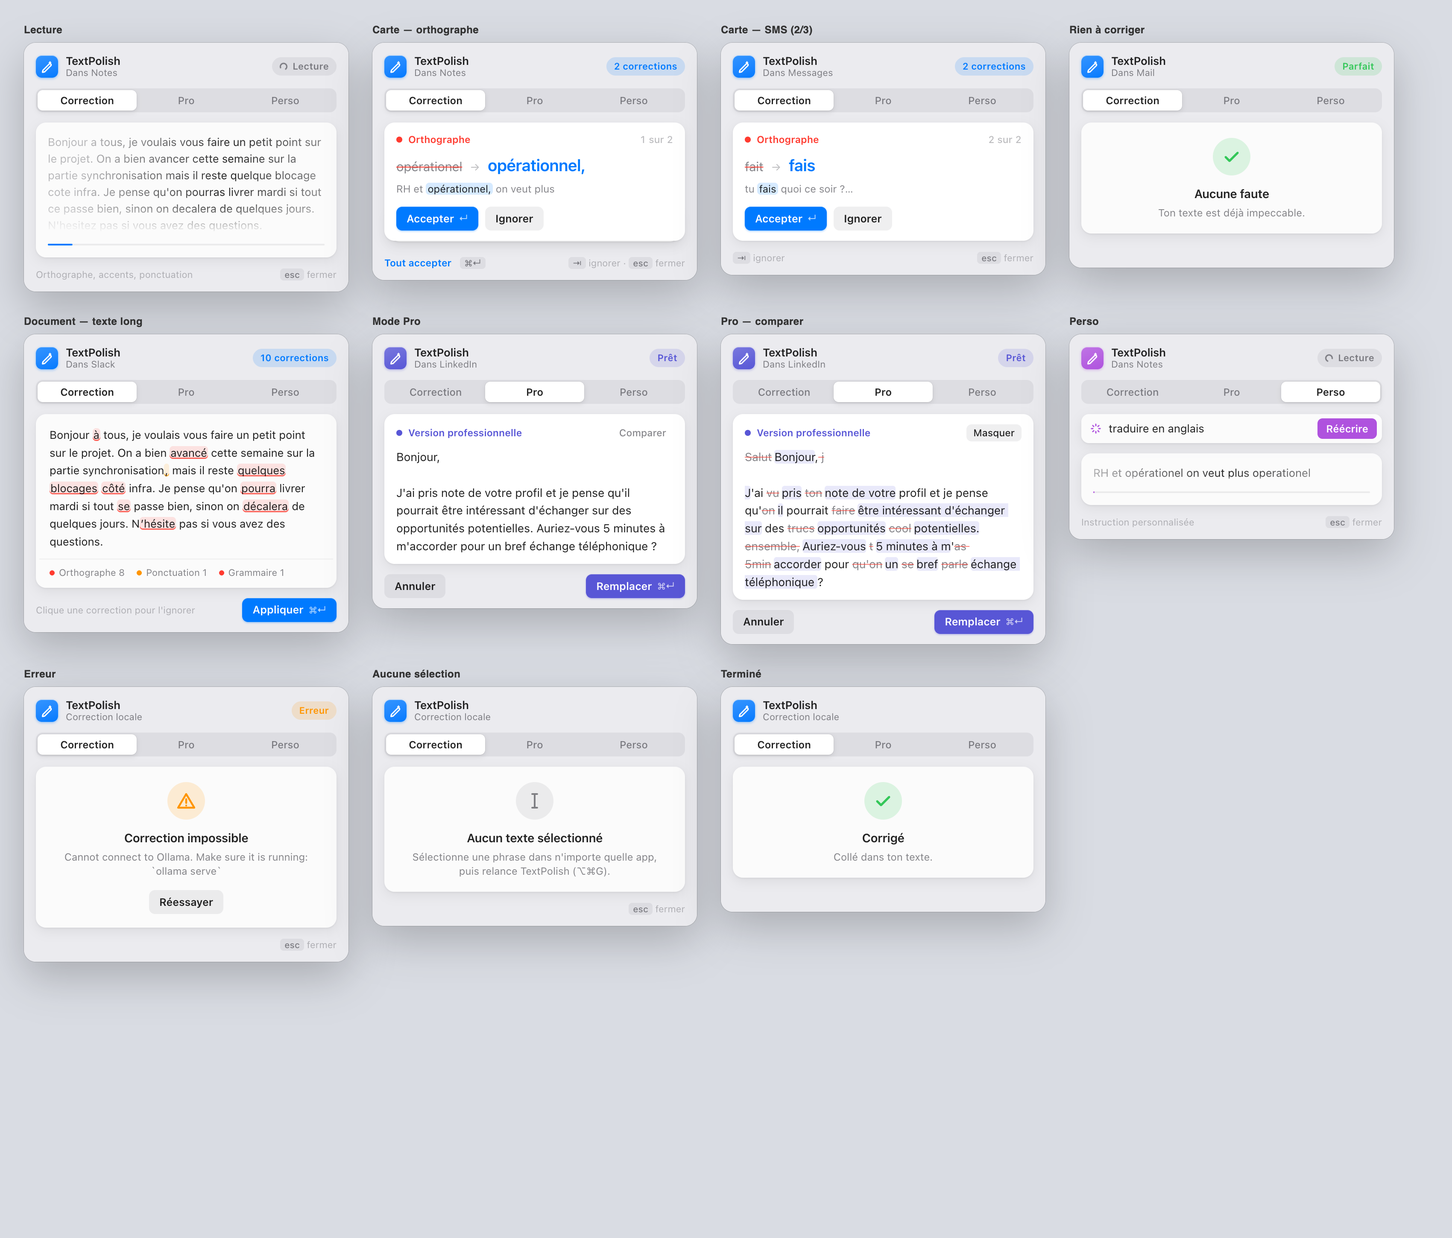
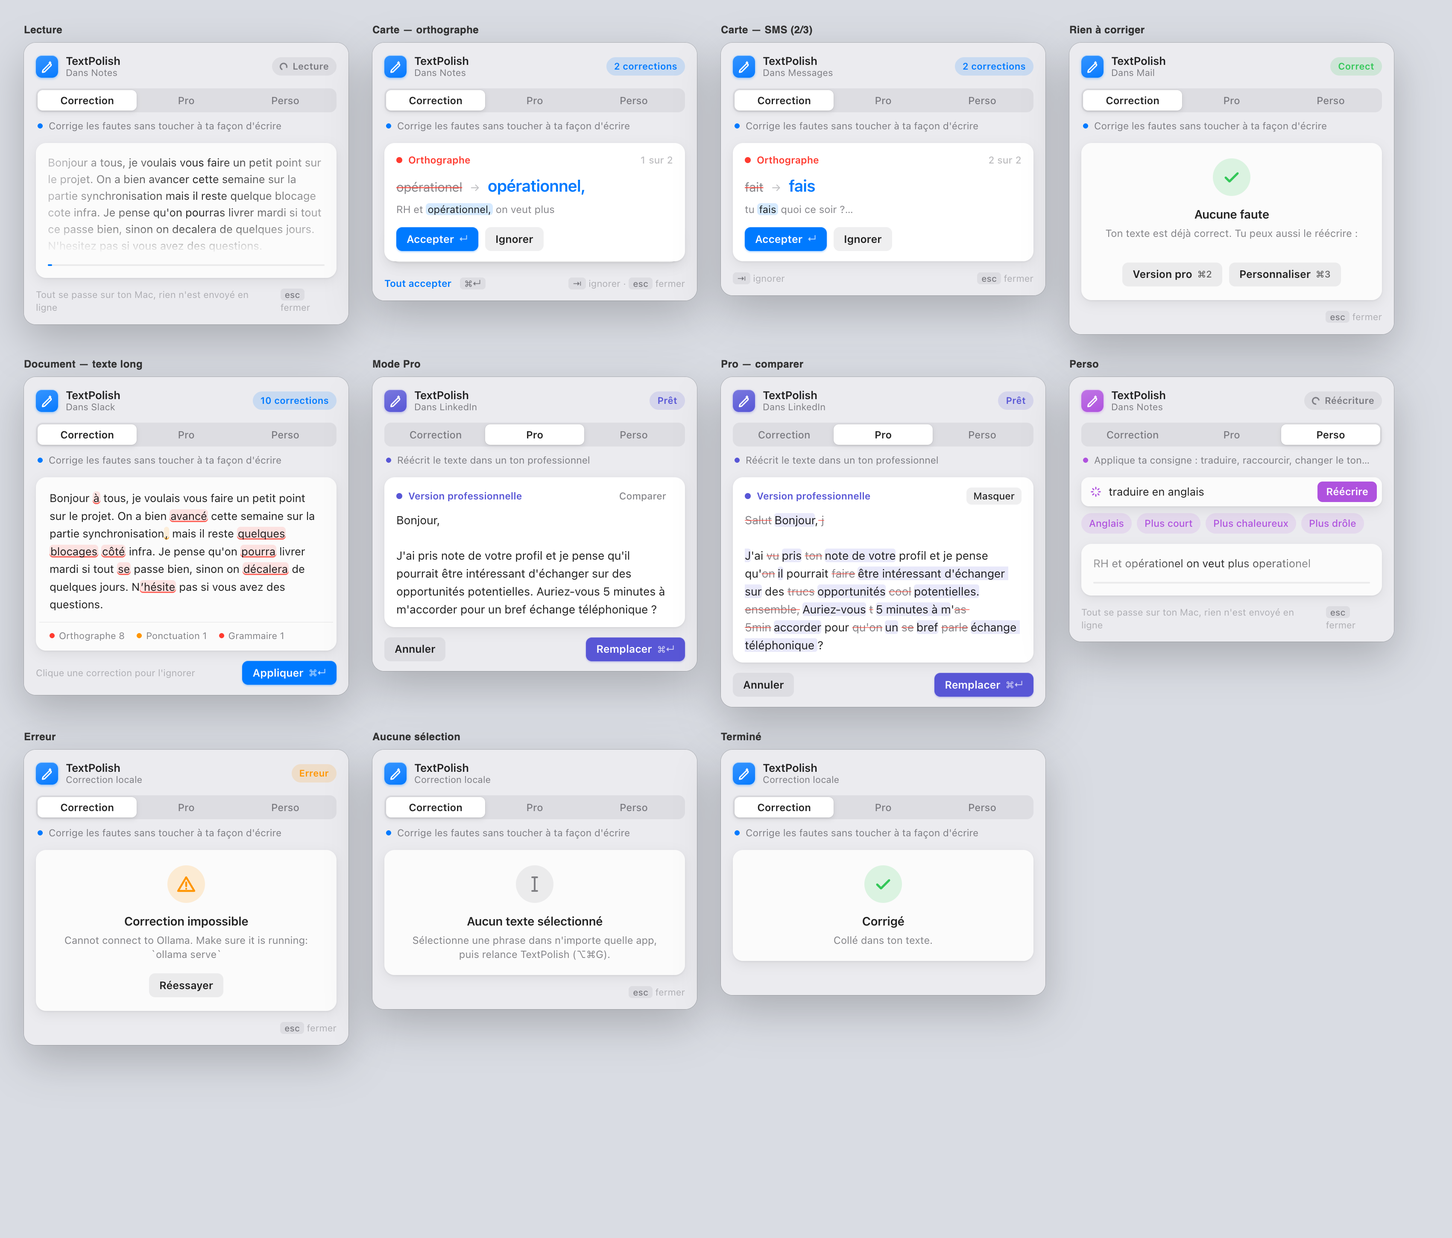
docs: rewrite the case study around the three modes and real use
First-person tone, a section on why each mode has its own color and
what correction colors mean, Perso explained with a real capture, the
local-only trade-offs with measured timings, and curated screenshots
instead of the all-states sheet.

Changed region(s): [[0.0, 0.0931, 0.9665, 0.869]]

diff --git a/docs/case-study.html b/docs/case-study.html
@@ -106,6 +106,20 @@
   .twoshots { display: grid; grid-template-columns: repeat(auto-fit, minmax(16rem, 1fr)); gap: 24px; margin-top: 26px; }
   .twoshots figure { margin: 0; }
 
+  /* Mode colors */
+  .modes { display: grid; grid-template-columns: repeat(auto-fit, minmax(15rem, 1fr)); gap: 24px; margin-top: 26px; }
+  .modes figure { margin: 0; display: flex; flex-direction: column; gap: 12px; }
+  .swatch { display: flex; align-items: center; gap: 10px; font-family: var(--display); font-weight: 600; font-size: 1.05rem; }
+  .swatch i { width: 14px; height: 14px; border-radius: 4px; flex-shrink: 0; }
+  .modes p { font-size: 0.95rem; color: var(--muted); margin: 0; }
+  .kinds { display: flex; flex-wrap: wrap; gap: 10px 22px; margin-top: 8px; font-size: 0.95rem; }
+  .kinds span { display: inline-flex; align-items: center; gap: 8px; }
+  .kinds i { width: 9px; height: 9px; border-radius: 50%; }
+  .stat { font: 700 2rem/1 var(--display); color: var(--blue); font-variant-numeric: tabular-nums; }
+  .stats { display: grid; grid-template-columns: repeat(auto-fit, minmax(10rem, 1fr)); gap: 18px; margin: 22px 0 18px; }
+  .stats div { background: var(--sheet); padding: 16px 18px; }
+  .stats p { font-size: 0.9rem; color: var(--muted); margin: 6px 0 0; }
+
   footer { margin-top: 72px; padding-top: 22px; border-top: 1px solid var(--rule); font: 0.85rem/1.6 var(--mono); color: var(--muted); }
 
   @media (prefers-reduced-motion: no-preference) {
@@ -121,104 +135,144 @@
   <div>
     <div class="label">Étude de cas UX · macOS · IA locale</div>
     <h1 style="margin-top:14px">TextPolish</h1>
-    <p class="lede" style="margin-top:18px">Corriger un texte <span class="fix"><s>sans quiter</s> <ins>sans quitter</ins></span> l'app où on l'écrit. On sélectionne, on appuie sur <kbd>⌥⌘G</kbd>, et une petite fenêtre propose les corrections une par une, avec un modèle qui tourne entièrement sur le Mac.</p>
+    <p class="lede" style="margin-top:18px">J'écris vite, sur mon téléphone comme sur mon Mac, et je laisse passer des fautes. J'ai construit un petit outil qui les corrige <span class="fix"><s>sans quiter</s> <ins>sans quitter</ins></span> l'app où j'écris : je sélectionne, j'appuie sur <kbd>⌥⌘G</kbd>, et une fenêtre me propose les corrections une par une. Le modèle tourne sur mon Mac, rien ne part sur Internet.</p>
     <div class="meta">
       <span class="label">Python · PyObjC · WebKit</span>
-      <span class="label">Ollama · Ministral 3B</span>
-      <span class="label">107 tests</span>
+      <span class="label">Ollama · Ministral 3B · Gemma 3</span>
+      <span class="label">109 tests</span>
     </div>
   </div>
   <figure>
-    <img class="shot" src="screenshots/popup-card-dark.png" alt="Popup TextPolish sous une phrase sélectionnée dans TextEdit : carte Orthographe proposant opérationel → opérationnel, avec les boutons Accepter et Ignorer.">
-    <figcaption>Capture réelle : la carte apparaît juste sous la sélection, dans TextEdit.</figcaption>
+    <img class="shot" src="screenshots/popup-card-dark.png" alt="Fenêtre TextPolish sous une phrase sélectionnée dans TextEdit : carte Orthographe proposant opérationel → opérationnel, avec Accepter et Ignorer.">
+    <figcaption>Capture réelle dans TextEdit. La fenêtre se place sous le texte sélectionné.</figcaption>
   </figure>
 </header>
 
 <main>
 <section class="col">
-  <h2>Le problème</h2>
-  <p>Pour corriger un message, on copie le texte, on ouvre un correcteur dans le navigateur, on colle, on recopie le résultat, puis on revient. Cinq gestes pour une virgule. Les outils qui évitent ce détour, comme Grammarly, envoient le texte sur leurs serveurs.</p>
-  <p>Je voulais l'inverse : rester dans l'app, ne rien envoyer en ligne, et que la correction arrive avant qu'on ait eu le temps de se demander quel mode choisir.</p>
+  <h2>Pourquoi je l'ai fait</h2>
+  <p>Pour corriger un message, je faisais toujours la même chose : copier le texte, l'ouvrir dans un correcteur en ligne, recopier le résultat, revenir dans l'app. Cinq gestes pour une virgule, et mon texte passait par les serveurs de quelqu'un d'autre.</p>
+  <p>Je voulais trois choses : ne pas quitter l'app, ne rien envoyer en ligne, et avoir une correction prête avant même de me demander quel réglage choisir.</p>
 </section>
 
 <section class="col">
   <h2>Le parcours</h2>
-  <p>Chaque étape retire une décision à l'utilisateur.</p>
+  <p>À chaque version, j'ai essayé d'enlever une décision à l'utilisateur.</p>
   <ol class="journey">
-    <li><div><b>Sélectionner, puis <kbd>⌥⌘G</kbd>.</b> Fonctionne dans Notes, Mail, Slack ou TextEdit. Le presse-papiers de l'utilisateur est sauvegardé puis restauré.</div></li>
-    <li><div><b>Lecture.</b> La fenêtre s'ouvre sous la sélection (position lue via l'API d'accessibilité de macOS) et le texte scintille pendant que le modèle lit.</div></li>
-    <li><div><b>Correction automatique.</b> Le mode Correction démarre seul : orthographe, accents, ponctuation, sans reformuler. Pro et Perso restent à un raccourci (<kbd>⌘2</kbd>, <kbd>⌘3</kbd>).</div></li>
-    <li><div><b>Une décision par faute.</b> <kbd>↵</kbd> accepte, <kbd>⇥</kbd> ignore, <kbd>⌘↵</kbd> accepte tout.</div></li>
-    <li><div><b>Collé.</b> Le texte reconstruit avec les seules corrections acceptées remplace la sélection, et la fenêtre disparaît.</div></li>
+    <li><div><b>Je sélectionne, puis <kbd>⌥⌘G</kbd>.</b> Ça marche dans Notes, Mail, Slack, TextEdit. Ce que j'avais copié avant est remis dans le presse-papiers à la fin.</div></li>
+    <li><div><b>La fenêtre lit le texte.</b> Elle s'ouvre juste sous la sélection et le texte scintille pendant la lecture.</div></li>
+    <li><div><b>La correction démarre seule.</b> Pas de mode à choisir : par défaut, l'outil corrige les fautes.</div></li>
+    <li><div><b>Je décide faute par faute.</b> <kbd>↵</kbd> pour accepter, <kbd>⇥</kbd> pour ignorer, <kbd>⌘↵</kbd> pour tout accepter.</div></li>
+    <li><div><b>C'est collé.</b> Seules les corrections acceptées remplacent ma sélection, et la fenêtre disparaît.</div></li>
   </ol>
 </section>
 
 <section class="col">
-  <h2>Une fenêtre qui s'adapte au texte</h2>
-  <p>Le même résultat ne se lit pas de la même façon selon sa longueur. Après la réponse du modèle, le diff est découpé en corrections typées (orthographe, accent, majuscule, grammaire, ponctuation, reformulation), puis l'app choisit la vue.</p>
+  <h2>Trois modes, trois couleurs</h2>
+  <p>Le mode par défaut, Correction, ne fait que corriger. C'est voulu : la plupart du temps, je veux juste que ma phrase soit juste, pas qu'on me la réécrive. Un message à un ami doit rester mon message. Quand je veux plus, je passe à Pro ou à Perso.</p>
+  <p>Chaque mode a sa couleur, partout dans la fenêtre : l'icône, l'onglet, le bouton principal et les surlignages. Même sans lire, on sait dans quel mode on est, et on ne remplace pas un texte entier par erreur en croyant juste corriger une faute. Une ligne sous les onglets dit en clair ce que fait le mode.</p>
 </section>
 <div class="wide">
-  <div class="layouts">
-    <div class="layout"><span class="label">Cartes</span><p>Texte court, trois fautes au plus : une carte par correction, avant → après, avec le contexte.</p></div>
-    <div class="layout"><span class="label">Document</span><p>Texte long : le texte entier, corrections surlignées par type. Un clic en annule une.</p></div>
-    <div class="layout"><span class="label">Réécriture</span><p>Pro et Perso changent toute la phrase : une seule proposition et un bouton Comparer.</p></div>
-    <div class="layout"><span class="label">Rien à corriger</span><p>Une coche, « Aucune faute », et la fenêtre se ferme seule.</p></div>
+  <div class="modes">
+    <figure>
+      <div class="swatch"><i style="background:#0a84ff"></i>Correction · <kbd>⌘1</kbd></div>
+      <p>Corrige les fautes sans toucher à ta façon d'écrire. Garde l'argot, les « frérot », les anglicismes comme « deadline ».</p>
+      <img class="shot" src="screenshots/popup-card-dark.png" alt="Mode Correction, carte bleue.">
+    </figure>
+    <figure>
+      <div class="swatch"><i style="background:#5e5ce6"></i>Pro · <kbd>⌘2</kbd></div>
+      <p>Réécrit le texte dans un ton professionnel. Une seule proposition, à comparer avec l'original avant de remplacer.</p>
+      <img class="shot" src="screenshots/popup-pro-dark.png" alt="Mode Pro : un message de candidature familier réécrit en version professionnelle, couleur indigo.">
+    </figure>
+    <figure>
+      <div class="swatch"><i style="background:#bf5af2"></i>Perso · <kbd>⌘3</kbd></div>
+      <p>Fait ce que je demande : traduire, raccourcir, rendre plus chaleureux ou plus drôle. Quatre idées en un clic, ou ma propre consigne.</p>
+      <img class="shot" src="screenshots/popup-perso-dark.png" alt="Mode Perso : consigne « Traduis en anglais » et le message traduit, couleur violette.">
+    </figure>
   </div>
-  <figure class="band" style="margin-left:0;margin-right:0">
-    <img class="shot" src="screenshots/all-states-light.png" alt="Planche de tous les états du popup en mode clair : lecture, cartes, aucune faute, document, mode Pro, comparaison, Perso, erreur, aucune sélection, terminé.">
-    <figcaption>Tous les états, générés à partir de vraies réponses du modèle (banc d'essai <code>design/preview.html</code>).</figcaption>
-  </figure>
+</div>
+<section class="col" style="padding-top:40px">
+  <h3>Et les couleurs des corrections</h3>
+  <p style="font-size:0.98rem">À l'intérieur d'un mode, la couleur dit le type de correction, pour savoir d'un coup d'œil ce qui est une vraie faute et ce qui est un choix de style.</p>
+  <div class="kinds">
+    <span><i style="background:#ff453a"></i>Rouge : orthographe, accents, grammaire</span>
+    <span><i style="background:#ff9f0a"></i>Orange : ponctuation</span>
+    <span><i style="background:#0a84ff"></i>Bleu : reformulation</span>
+  </div>
+</section>
+
+<section class="col">
+  <h2>Une fenêtre qui s'adapte au texte</h2>
+  <p>Une phrase courte et un paragraphe ne se relisent pas de la même façon. Après la réponse du modèle, l'outil découpe la différence en corrections et choisit la vue.</p>
+</section>
+<div class="wide">
   <div class="twoshots">
-    <figure><img class="shot" src="screenshots/popup-document-dark.png" alt="Vue document : paragraphe avec dix corrections surlignées et une légende Orthographe, Ponctuation, Grammaire."><figcaption>Vue document, texte de 300 caractères.</figcaption></figure>
-    <figure><img class="shot" src="screenshots/popup-pro-dark.png" alt="Mode Pro : un message familier réécrit en version professionnelle, avec les boutons Annuler et Remplacer."><figcaption>Mode Pro : une proposition, à comparer ou remplacer.</figcaption></figure>
+    <figure><img class="shot" src="screenshots/popup-document-dark.png" alt="Vue document : un paragraphe avec trois corrections surlignées et le bouton Appliquer."><figcaption>Texte long : tout le paragraphe, les corrections surlignées. Un clic en annule une.</figcaption></figure>
+    <figure><img class="shot" src="screenshots/popup-clean-dark.png" alt="Aucune faute : coche verte et deux boutons, Version pro et Personnaliser."><figcaption>Aucune faute : la fenêtre reste ouverte et propose la suite, une version pro ou une consigne.</figcaption></figure>
   </div>
 </div>
 
 <section class="col">
-  <h2>Quatre versions de la même fenêtre</h2>
-  <p>Chaque version vient d'un retour en utilisation réelle, captures à l'appui.</p>
-  <div class="iter"><div class="v">v1</div><div><p>Un panneau de 420 × 520 au centre de l'écran : choisir un mode, cliquer sur Repolir, puis le texte était collé sans relecture.</p><p class="why">Trop de décisions avant de voir le moindre résultat, et aucun contrôle sur ce qui était collé.</p></div></div>
-  <div class="iter"><div class="v">v2</div><div><p>Un diff barré/surligné avec Accepter et Réviser, et une fenêtre ancrée sous la sélection.</p><p class="why">Il fallait encore choisir un mode avant que quoi que ce soit ne se passe.</p></div></div>
-  <div class="iter"><div class="v">v3</div><div><p>Fenêtre compacte par défaut, correction lancée dès l'ouverture, modes accessibles sans déplier.</p><p class="why">Le mode « décontracté » reformulait des phrases au lieu de seulement corriger : un problème de modèle, pas d'interface (voir plus bas).</p></div></div>
-  <div class="iter"><div class="v">v4</div><div><p>Une carte par correction façon Grammarly, flou natif de macOS, hauteur qui suit le contenu, vues selon la longueur du texte, clavier en premier.</p><p class="why">Version actuelle.</p></div></div>
+  <h2>Tout reste sur le Mac</h2>
+  <p>Le modèle tourne avec Ollama, directement sur mon MacBook (M2, 16 Go). Mes messages ne quittent jamais l'ordinateur, l'outil marche sans connexion, et il ne coûte rien à l'usage. En échange, il faut accepter des modèles plus petits et faire attention à la vitesse.</p>
+  <div class="stats">
+    <div><div class="stat">~1 s</div><p>pour corriger une phrase quand le modèle est déjà chargé</p></div>
+    <div><div class="stat">~5 s</div><p>quand on change de mode : le Mac recharge l'autre modèle</p></div>
+    <div><div class="stat">0</div><p>octet envoyé sur Internet</p></div>
+  </div>
+  <p>Le deuxième chiffre m'a surpris. J'ai essayé de garder les deux modèles en mémoire en même temps, mais avec un navigateur et un éditeur ouverts, il ne reste pas assez de place sur 16 Go. C'est la prochaine chose à améliorer.</p>
+</section>
+
+<section class="col">
+  <h2>Comment la fenêtre a évolué</h2>
+  <p>Chaque version vient de quelque chose qui ne marchait pas quand je l'utilisais vraiment.</p>
+  <div class="iter"><div class="v">v1</div><div><p>Un grand panneau au milieu de l'écran : je choisissais un mode, je cliquais sur Repolir, et le texte était collé sans que je puisse le relire.</p><p class="why">Trop de décisions avant de voir quoi que ce soit, et aucun contrôle sur le résultat.</p></div></div>
+  <div class="iter"><div class="v">v2</div><div><p>Le résultat s'affiche avant d'être collé, avec les mots barrés et ajoutés, et la fenêtre se place sous le texte.</p><p class="why">Il fallait encore choisir un mode avant que la correction démarre.</p></div></div>
+  <div class="iter"><div class="v">v3</div><div><p>Fenêtre plus petite, correction lancée dès l'ouverture.</p><p class="why">Le mode « décontracté » réécrivait mes phrases au lieu de les corriger. C'était le modèle, pas l'interface.</p></div></div>
+  <div class="iter"><div class="v">v4</div><div><p>Une carte par faute, le flou natif de macOS, une hauteur qui suit le contenu, et une vue différente pour les longs textes.</p><p class="why">Quand un texte n'avait aucune faute, la fenêtre se fermait toute seule. Impossible d'en demander une version pro.</p></div></div>
+  <div class="iter"><div class="v">v5</div><div><p>Le cas « aucune faute » propose la suite, chaque mode explique ce qu'il fait, et Perso a des idées toutes prêtes.</p><p class="why">Version actuelle.</p></div></div>
 </section>
 
 <section class="col">
   <h2>Ce que j'ai écarté</h2>
-  <p>Le soulignement rouge en temps réel de Grammarly était tentant. J'ai étudié l'API d'accessibilité de macOS avant de m'y lancer, et trois obstacles concrets m'ont fait garder le déclenchement au raccourci :</p>
-  <p>Impossible de lire la position du curseur quand rien n'est sélectionné (un bug Apple connu). Une fonction clé (<code>AXValueGetValue</code>) n'est pas exposée par PyObjC. Et beaucoup d'apps Electron n'exposent pas leur texte de façon fiable. Les alternatives à Grammarly qui fonctionnent dans toutes les apps Mac utilisent d'ailleurs, elles aussi, un raccourci.</p>
+  <p>J'aurais aimé le soulignement rouge en direct, comme Grammarly. Avant de m'y lancer, j'ai regardé ce que permet l'API d'accessibilité de macOS. Elle ne donne pas la position du curseur quand rien n'est sélectionné, une fonction utile n'est pas disponible en Python, et beaucoup d'apps (Slack, VS Code) n'exposent pas bien leur texte. J'ai gardé le raccourci, comme le font les autres correcteurs Mac qui marchent dans toutes les apps.</p>
 </section>
 
 <section class="col">
   <h2>Choisir le modèle</h2>
-  <p>Le modèle tourne sur un MacBook M2 avec 16 Go de RAM, donc il doit être petit. Cinq séries de tests sur un corpus FR/EN, notées par un modèle juge, ont guidé les choix.</p>
+  <p>J'ai testé une dizaine de modèles sur des phrases en français et en anglais, avec un autre modèle pour noter les résultats. Quelques constats ont changé le produit :</p>
   <div class="table-wrap">
     <table>
-      <thead><tr><th>Constat</th><th>Effet sur le produit</th></tr></thead>
+      <thead><tr><th>Ce que j'ai vu</th><th>Ce que j'ai changé</th></tr></thead>
       <tbody>
-        <tr><td><code>gemma3:1b</code> ne voit pas que <span class="fix"><s>opérationel</s> <ins>opérationnel</ins></span> est faux, 3 fois sur 3.</td><td>Le mode Correction passe sur <code>ministral-3:3b</code>, au prix d'environ 2,7 s de plus.</td></tr>
-        <tr><td><code>ministral-3:3b</code> invente un e-mail entier en mode Pro à partir de deux propositions.</td><td>Pro reste sur <code>gemma3:4b</code>.</td></tr>
-        <tr><td>Gemma 4 « réfléchit » par défaut sur Ollama : 51,6 s au lieu d'environ 1 s.</td><td>Écarté ; documenté pour l'avenir (<code>"think": false</code>).</td></tr>
-        <tr><td>Le modèle remplace <code>'</code> par <code>’</code> et ajoute des espaces insécables.</td><td>Ces différences ne sont plus montrées comme des corrections.</td></tr>
+        <tr><td><code>gemma3:1b</code> ne voit jamais que <span class="fix"><s>opérationel</s> <ins>opérationnel</ins></span> est faux.</td><td>Correction passe sur <code>ministral-3:3b</code>, un peu plus lent mais fiable.</td></tr>
+        <tr><td>En mode Pro, <code>ministral-3:3b</code> invente un e-mail entier à partir de deux phrases.</td><td>Pro garde <code>gemma3:4b</code>.</td></tr>
+        <tr><td>Le modèle de correction mettait des mots en gras et traduisait « deadline » en « délai ».</td><td>Le gras est retiré et la consigne garde les anglicismes.</td></tr>
+        <tr><td>Il remplaçait <code>'</code> par <code>’</code> et ajoutait des espaces insécables.</td><td>Ces détails ne comptent plus comme des corrections.</td></tr>
       </tbody>
     </table>
   </div>
 </section>
 
 <section class="col">
-  <h2>Tester en conditions réelles</h2>
-  <p>Plutôt que de juger sur des maquettes, j'ai piloté la vraie app : du texte dans TextEdit, un raccourci envoyé comme un vrai clavier (événements HID), puis une capture de la fenêtre. Ce protocole a fait remonter des bugs qu'aucun test unitaire ne voyait.</p>
+  <h2>Tester comme un utilisateur</h2>
+  <p>Je n'ai pas voulu juger sur des maquettes. J'ai fait tourner la vraie app avec des messages de tous les jours : un SMS à un ami, un mail à mon manager, une candidature LinkedIn, un message en anglais, un long compte rendu. Le texte était tapé dans TextEdit et le raccourci envoyé comme par un vrai clavier. Plusieurs bugs ne sont apparus qu'à ce moment-là.</p>
   <div class="bugs">
-    <div class="bug"><h3>La copie échouait par intermittence</h3><p>Le raccourci se déclenche pendant que ⌥ est encore enfoncé, donc la copie simulée devenait ⌥⌘C (« copier le style ») et ne copiait rien. L'app attend désormais que les touches soient relâchées.</p></div>
-    <div class="bug"><h3>Trois copies de l'app répondaient au raccourci</h3><p>Chaque lancement ajoutait une instance. Un verrou garantit désormais qu'une seule tourne.</p></div>
-    <div class="bug"><h3><kbd>⌘2</kbd> ne marchait pas sur un clavier AZERTY</h3><p>La touche 2 y produit « é ». Les raccourcis lisent maintenant la touche physique.</p></div>
-    <div class="bug"><h3>La version Windows plantait au démarrage</h3><p>Un import invalide en PyQt6, trouvé en affichant le panneau Windows hors écran depuis le Mac.</p></div>
+    <div class="bug"><h3>La copie échouait une fois sur deux</h3><p>Le raccourci se déclenche pendant que ⌥ est encore enfoncé. La copie devenait ⌥⌘C, « copier le style », et rien n'était copié. L'app attend maintenant qu'on relâche les touches.</p></div>
+    <div class="bug"><h3>Passer en Pro pendant la correction ne faisait rien</h3><p>L'onglet changeait, mais c'est la correction qui s'affichait. La nouvelle demande remplace maintenant l'ancienne.</p></div>
+    <div class="bug"><h3><kbd>⌘2</kbd> ne marchait pas sur mon clavier</h3><p>Sur un clavier AZERTY, la touche 2 donne « é ». Les raccourcis lisent maintenant la touche physique.</p></div>
+    <div class="bug"><h3>Trois copies de l'app tournaient en même temps</h3><p>Chaque lancement en ajoutait une, et toutes répondaient au raccourci. Une seule peut tourner maintenant.</p></div>
   </div>
 </section>
 
 <section class="col">
+  <h2>La suite</h2>
+  <p>Les nouvelles versions d'Ollama utilisent MLX, le moteur d'Apple, pour certains modèles. Je veux mesurer si ça réduit les 5 secondes de changement de mode. Je veux aussi essayer de petits modèles sortis récemment (Qwen 3.5 2B, LFM3) pour la correction, et un modèle entraîné spécialement sur la grammaire française.</p>
+</section>
+
+<section class="col">
   <h2>Ce que j'en retiens</h2>
-  <p>Retirer une décision vaut souvent mieux qu'ajouter une option : la plus grosse amélioration a été de lancer la correction sans demander de mode. Une interface ne compense pas un mauvais modèle : le bug « opérationel » se réglait en changeant de modèle, pas en ajustant l'écran. Et une interface se juge en la faisant fonctionner pour de vrai, avec un vrai clavier et une vraie app à côté.</p>
+  <p>Enlever une décision m'a plus servi que d'ajouter une option : la meilleure amélioration a été de lancer la correction sans demander de mode. Certains problèmes ne se règlent pas dans l'interface : le bug « opérationel » se réglait en changeant de modèle. Et surtout, une interface se juge en l'utilisant pour de vrai. La moitié des bugs de cette page, je ne les aurais pas vus en regardant des captures.</p>
 </section>
 </main>
 
